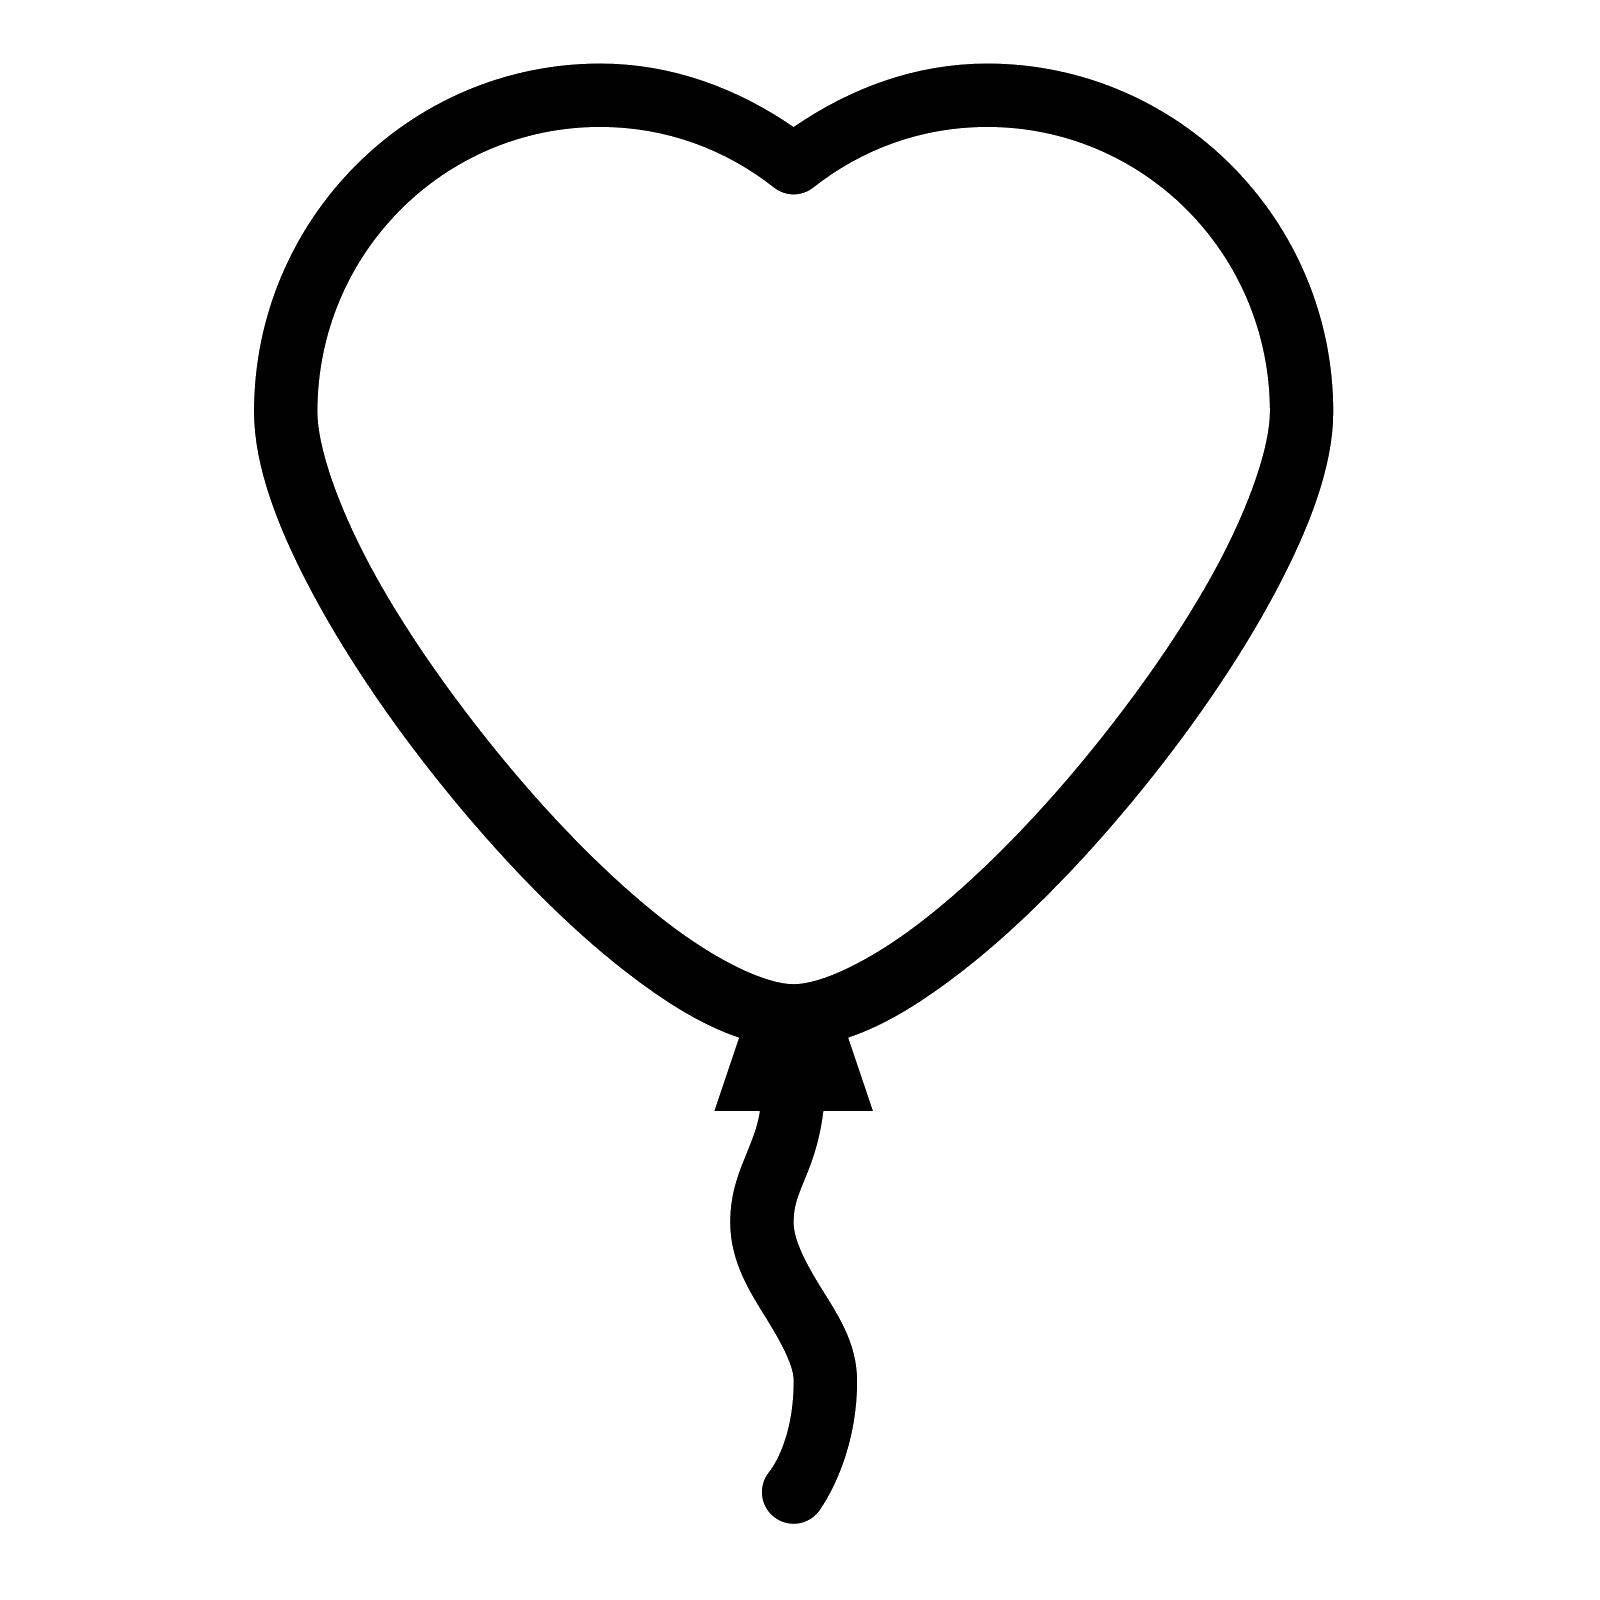
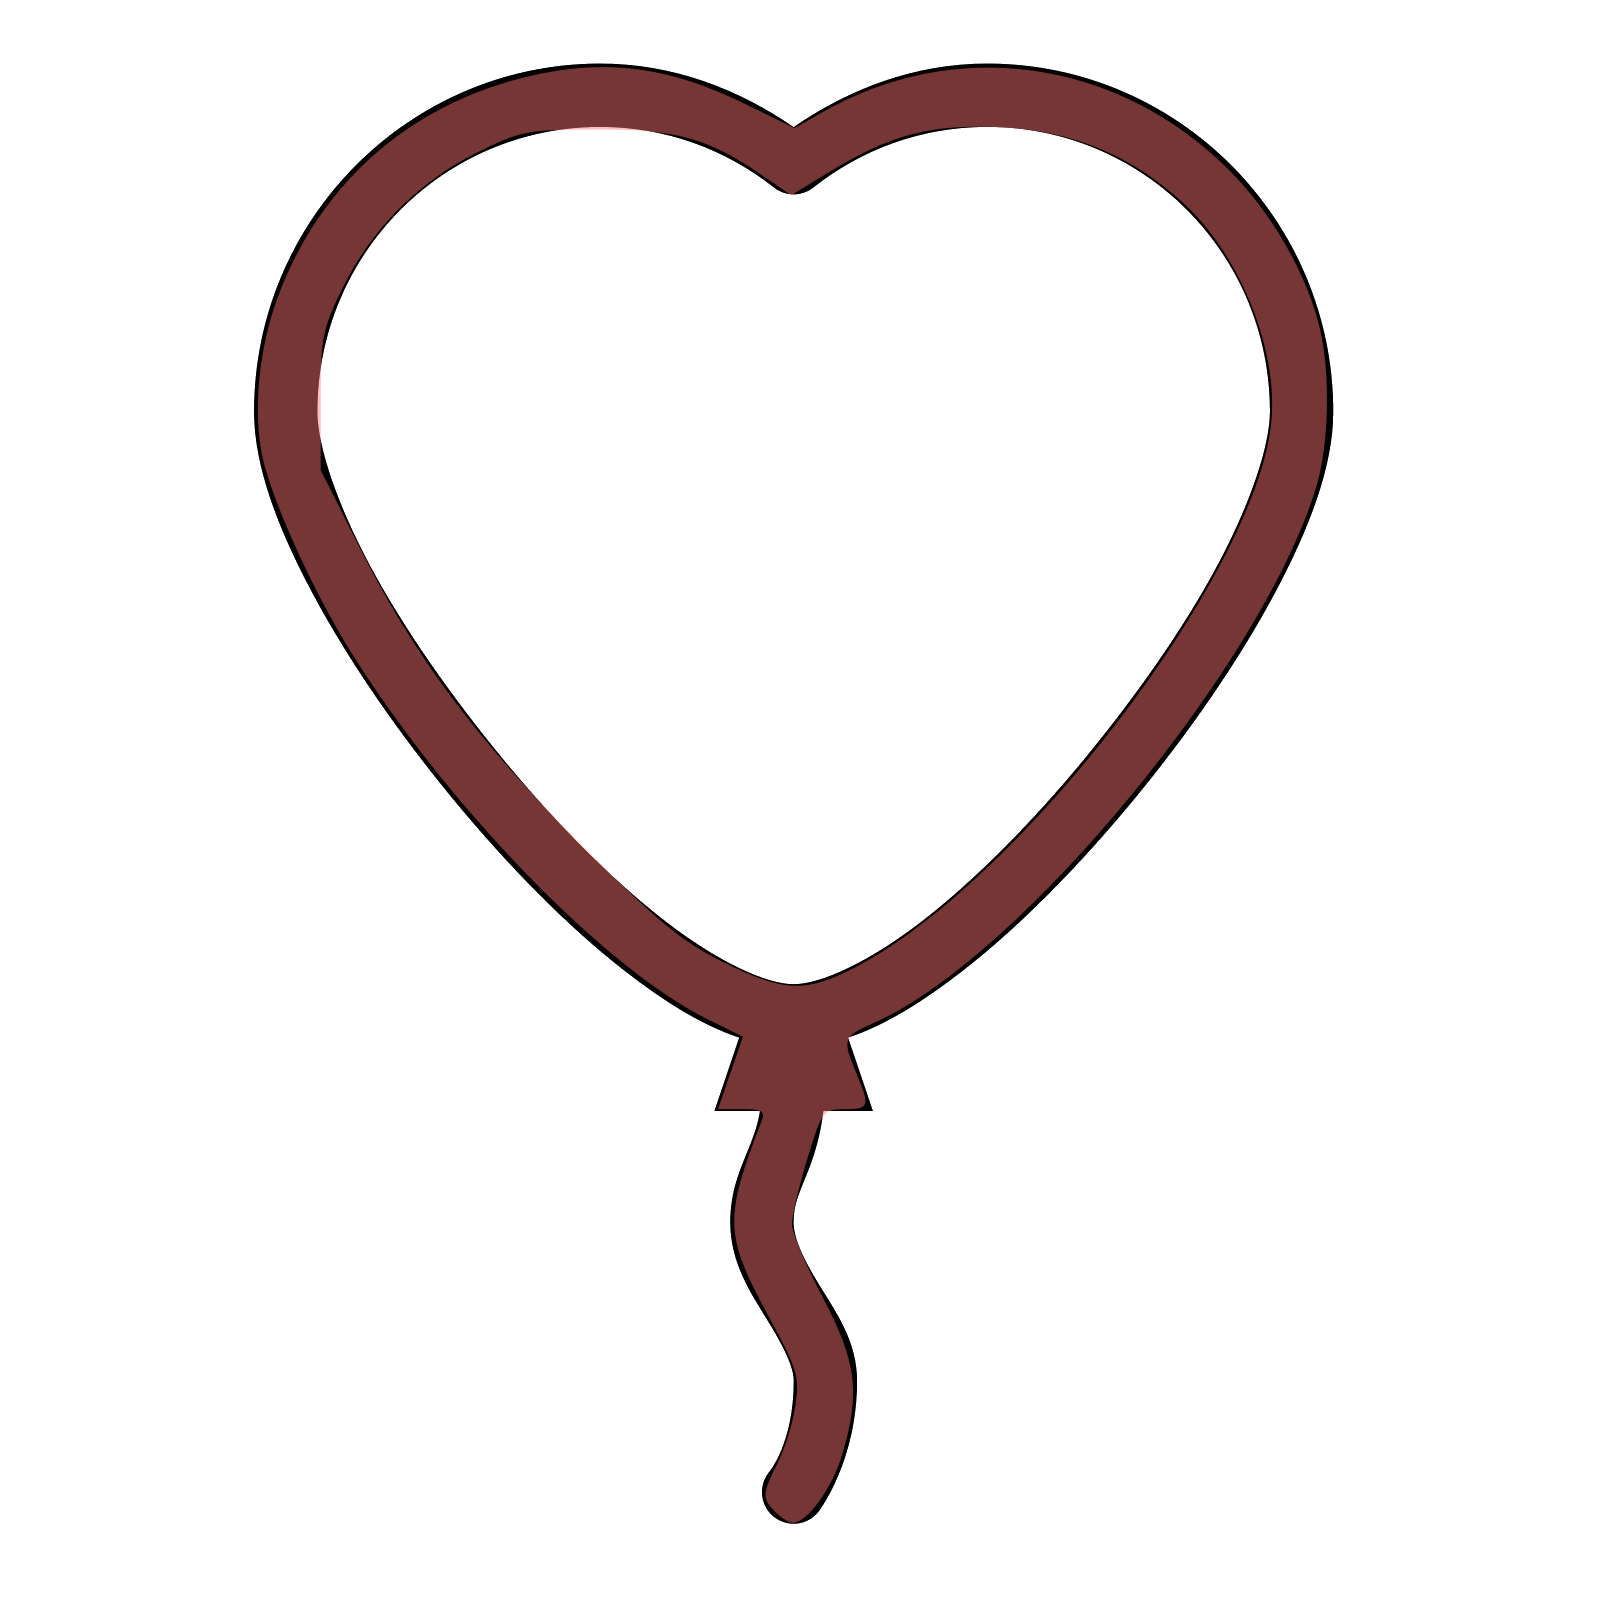
pisa image change

Changed region(s): [[0.1562, 0.0312, 0.8438, 0.9688]]

diff --git a/src/components/hero/Hero.scss b/src/components/hero/Hero.scss
@@ -9,48 +9,22 @@
     padding: 0.5rem;
     margin: 5rem;
     border: 0.2rem solid $secondary-text-color;
-    &-navbar {
-      display: flex;
-      align-items: center;
-      justify-content: space-evenly;
-      padding: 2.5rem;
-      height: 10rem;
-      grid-column: span 2;
-      background-color: white;
-      &-data {
-        font-family: 'Gloria Hallelujah', cursive;
-        font-size: 5rem;
-        color: $secondary-text-color;
-        & span {
-          font-family: 'Gloria Hallelujah', cursive;
-          font-size: 1rem; 
-        }
-      }
 
-      & img {
-        height: 15rem;
-        width: 15rem;
-        z-index: 999; 
-        align-self: stretch;
-        position: absolute;
-        top: 80px;
-        left: 60px;
-      }
-    }
     &-text {
-     
       font-family: 'Gloria Hallelujah', cursive;
-      
       font-size: 4.5rem;
       padding: 2.5rem;
+
       &-p {
         display: inline-block;
         text-align: left;
+
         &-begin {
           display: block;
           font-size: 2.5rem;
           margin-bottom: 0.5rem;
         }
+
         &-final {
           display: block;
           font-size: 2.5rem;
@@ -58,8 +32,9 @@
         }
       }
     }
+
     &-img {
-      background-image: url('../../img/hero-black.jpeg');
+      background-image: url('../../img/hero_img.jpg');
       background-repeat: no-repeat;
       background-position: center;
       background-size: cover;
@@ -71,14 +46,18 @@
     grid-template-columns: 1fr;
     grid-gap: 0;
     margin: 0.5rem;
+
     &-navbar-data {
       font-size: 2rem;
+      border: 1px solid green;
     }
-    &-navbar-data {
-      font-size: 2rem;
-    }
-    &-navbar img {
-      display: none;
+
+    &-navbar-img {
+      margin-top: 0;
+     
+      height: 2rem;
+   
+      border: 1px solid green;
     }
 
   }

diff --git a/src/components/navbar/Navbar.scss b/src/components/navbar/Navbar.scss
@@ -1,0 +1,55 @@
+@import '../../utils/colors.scss';
+
+.navbar-main {
+  display: flex;
+  align-items: center;
+  justify-content: center;
+  height: 10rem;
+  grid-column: span 2;
+  background-color: white;
+  color: $secondary-text-color;
+  font-family: 'Gloria Hallelujah', cursive;
+  &-nome {
+    border: 1px solid green;
+    margin: auto;
+    font-size: 3rem;
+  }
+
+  &-data {
+    border: 1px solid green;
+    font-size: 1rem; 
+  }
+
+  &-img {
+    border: 1px solid green;
+    margin-top: 120px;
+    margin-right: auto;
+
+    & img{
+      max-height: 15rem;
+      max-width: 15rem;
+      min-width: 2rem;
+      min-height: 2rem;
+    }
+  }
+}
+ 
+@media only screen and (max-width: 768px) {
+  .navbar-main{
+    &-nome {
+     font-size: 1.5rem;
+
+
+    }
+
+    &-img {
+      height: 5rem;
+   
+  
+    }
+
+  }
+
+
+  
+}

diff --git a/src/components/hero/Hero.js b/src/components/hero/Hero.js
@@ -1,20 +1,11 @@
-import React from "react";
+import React from 'react';
+import Navbar from '../navbar/Navbar';
 import './Hero.scss';
-import heroImg from '../../img/hero_img.jpg';
-import logo from '../../img/heart-balloon.png';
-import { Container } from 'react-materialize';
 
 const Hero = () => {
     return (
         <section className="hero-main ">
-          
-          <nav className="hero-main-navbar">
-            
-            <img src={logo} alt="logo"/>
-           
-            <p className="hero-main-navbar-data">Mariana e Eduardo <span>29 de setembro de 2018</span></p>
-          </nav>
-        
+          <Navbar />
           <div className="hero-main-text z-depth-4">
             <p className="hero-main-text-p flow-text">
               <span className="hero-main-text-p-begin">Queridos amigos,</span>

diff --git a/public/index.html b/public/index.html
@@ -9,7 +9,7 @@
       homescreen on Android. See https://developers.google.com/web/fundamentals/engage-and-retain/web-app-manifest/
     -->
     <link rel="manifest" href="%PUBLIC_URL%/manifest.json">
-    <link rel="shortcut icon" href="%PUBLIC_URL%/favicon.ico">
+    <link rel="shortcut icon" href="%PUBLIC_URL%/hear.png">
     <!-- Import Google Icon Font -->
     <link href="http://fonts.googleapis.com/icon?family=Material+Icons" rel="stylesheet">
     <!-- Import materialize.css -->
@@ -24,7 +24,7 @@
       work correctly both with client-side routing and a non-root public URL.
       Learn how to configure a non-root public URL by running `npm run build`.
     -->
-    <title>React App</title>
+    <title>Mariana e Eduardo</title>
   </head>
   <body>
     <noscript>

diff --git a/src/components/navbar/Navbar.js b/src/components/navbar/Navbar.js
@@ -1,0 +1,16 @@
+import React from "react";
+import './Navbar.scss';
+import logo from '../../img/heart-shaped-balloon.svg';
+
+const Navbar = () => {
+  return (
+    <nav className="navbar-main">
+      <span className="navbar-main-img">
+        <img src={logo} alt="logo"/>
+      </span>
+      <p className="navbar-main-nome">Mariana e Eduardo  <span className="navbar-main-data">29 de setembro de 2018</span></p>
+    </nav>
+  );
+}
+
+export default Navbar;

diff --git a/src/utils/roteiros.js b/src/utils/roteiros.js
@@ -1,5 +1,5 @@
 import imgUm from '../img/museuvaticano.jpeg';
-import imgDois from '../img/pisa.jpeg';
+import imgDois from '../img/pisa2.jpeg';
 import imgTres from '../img/roma.jpeg';
 import imgQuatro from '../img/roma2.jpeg';
 import imgCinco from '../img/roma3.jpeg';
